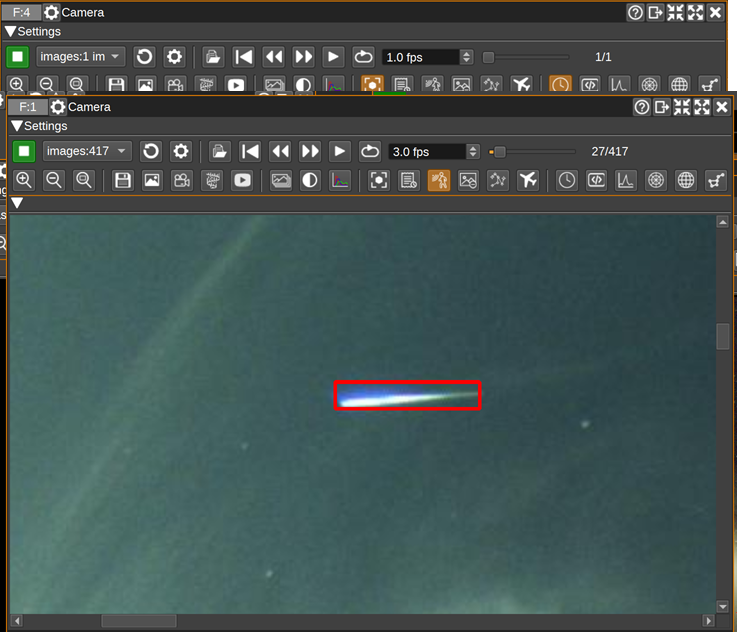
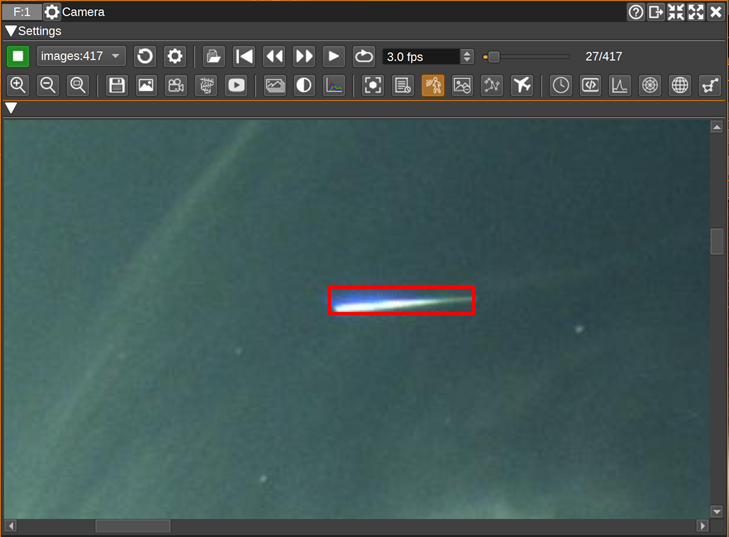
Update motion detection image

Changed region(s): [[0.0, 0.0, 1.0, 1.0], [0.4225, 0.5065, 0.6639, 0.6555], [0.7846, 0.5959, 0.8148, 0.6257]]

diff --git a/plugins/feature/camera/readme.md b/plugins/feature/camera/readme.md
@@ -181,7 +181,7 @@ Pressing 'Save to CSV' will show a file dialog to select a filename to save the 
 
 <h3>27: Motion detection</h3>
 
-Cehck to enables motion detection using the Motion Detection settings in the Camera Settings dialog.
+Check to enable motion detection using the Motion Detection settings in the Camera Settings dialog.
 
 ![Motion dection](../../../doc/img/Camera_plugin_motion_detection.png)
 
